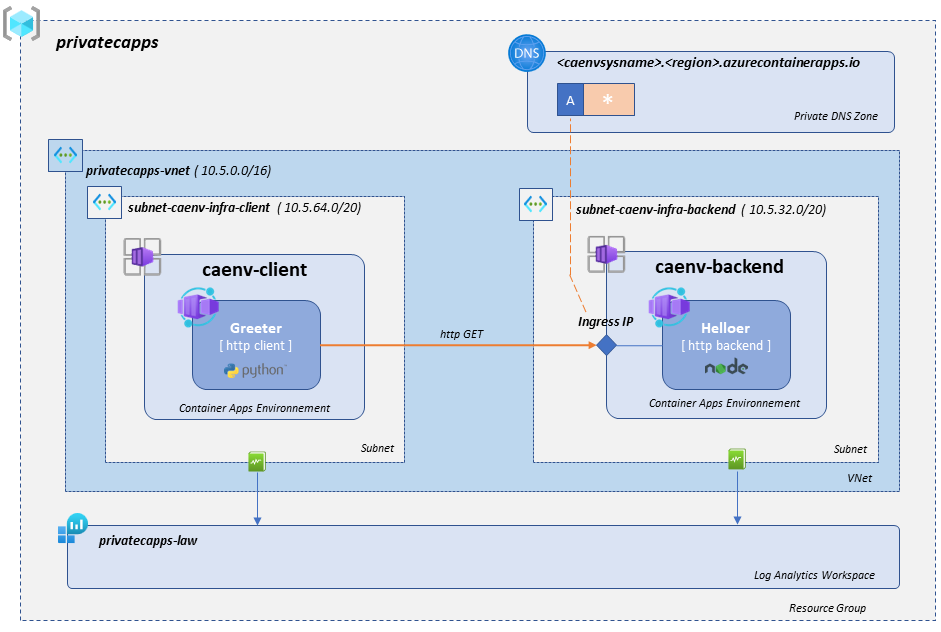
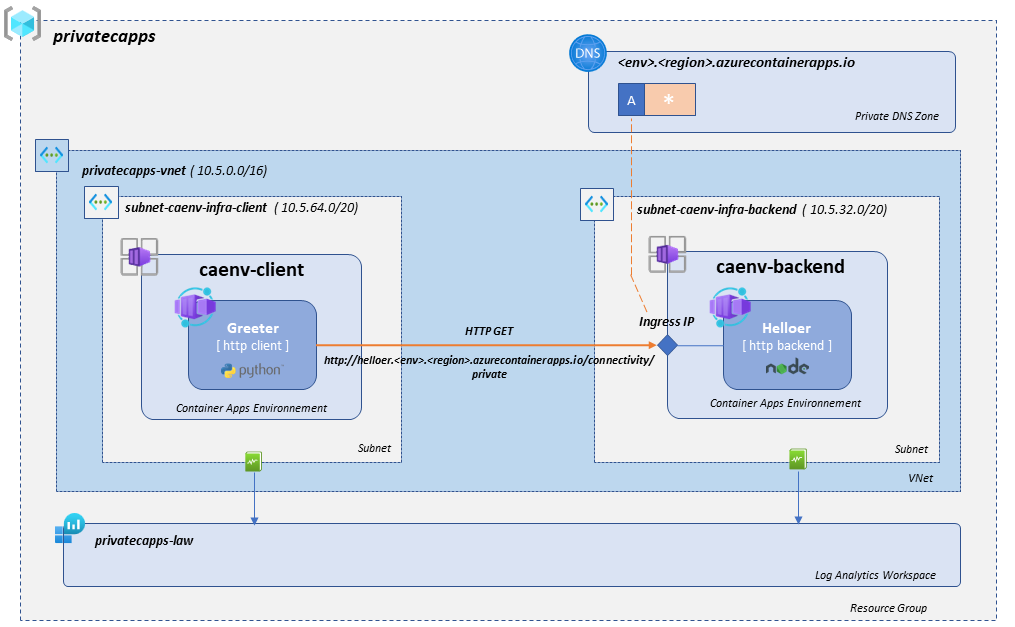
* Updated doc and README * Dos2Unix on source files

diff --git a/README.md b/README.md
@@ -1,2 +1,204 @@
+
 # az-capps-private
-Example of Azure Container Apps in private connectivity mode
+
+## Intro
+
+The Azure Container Apps is a new and quite interesting feature that provides a fully managed, ready to use, containerized serverless environment for your applications.
+
+This service is a highly valuable player when it comes to developing cloud native applications or simply accelerating your application modernization process by removing all operational dependencies on the Kubernetes infrastructure and underlying skills.
+The Azure Container Apps provides both public and fully private connectivity and can therefore fit pretty much any of the enterprise contexts.
+
+This repo demonstrates the deployment of a set of applications in a fully private mode where all the traffic flows though your Azure Vnets.
+Due to the freshness of the service GA, the IaC framework coverage for Azure Container Apps is quite limited as you can only use Azure ARM, CLI or Bicep to automate the deployment.
+
+The current repo provides the Bicep implementation and will be updated when additional frameworks (Terraform and eventually Pulumi) will extend the their coverage in order to provide the bindings for this service. 
+
+## Architecture
+
+The demonstrator deploys two Container Apps communicating via private connectivity over your VNet infrastructure. 
+
+The following diagram provides a high level overview of the demonstrator: 
+
+![image](src/doc/Architecture.png)
+
+### Backend service
+
+The **caenv-backend** environment hosts the **[helloer](https://github.com/zlatko-ms/helloer)** application, a simple nodejs app that responds to http requests.
+
+The environment is injected in a specific subnet and connected to the **privatecapps-law** Log Analytics workspace in order to provide diagnostic settings and log centralization.
+
+The application exposes an ingress via the environment ingress static IP. In order to reach your application ingress, the caller application must use the ingress FQDN as detailed in the following [doc](https://docs.microsoft.com/en-us/azure/container-apps/ingress?tabs=bash#ip-addresses-and-domain-names) . 
+
+Note that hitting the ILB behind the ingress with the IP address will not work as the hostname is used to route the traffic to the correct application within the environment.
+
+Hence we need to set up a **private DNS zone** with a **wildcard ('*') A record** pointing to the environment ingress static IP. The wildcard is justified by the fact that a given environment can have several applications, each with its own ingress, served from the same Internal Load Balancer. 
+
+The final app flow routing will use the hostname which is expected to be the same as the application name (in our case helloer.<env>.<region>.azurecontaierapps.io)
+
+### Client service
+
+The **caenv-client** environment hosts the **[greeter](https://github.com/zlatko-ms/pgreeter)** applicaion, a tiny python script that performs periodical HTTP GET requests to the backend.
+
+The environment is injected in a specific subnet and connected to the same **privatecapps-law** Log Analytics workspace to provide diagnostic settings and log centralization.
+
+This Greeter application does not provide any ingress, so there is no need to set up a DNS zone for this environment.
+
+## Code Walkthough
+
+The code tree is classic, the [main.bicep](https://github.com/zlatko-ms/az-capps-private/blob/main/src/bicep/main.bicep) providing the definitions of the demonstrator and using specific [modules](./src/bicep/modules/) to deploy the underlying infrastructure services ( CA Envs, Apps, DNS, Log Analytics)
+
+### VNet Definition
+
+The network infrastructure is defined by the two variables located in [main.bicep](https://github.com/zlatko-ms/az-capps-private/blob/main/src/bicep/main.bicep#L12). If necessay update the ranges in order to fit your Azure environnement constraints.
+
+The implementation of the VNet and underlying subnets is perfromed by the dedicated [vnet.bicep](https://github.com/zlatko-ms/az-capps-private/blob/main/src/bicep/modules/vnet.bicep) module.
+
+The network module **outputs** the identifiers of the created [Vnet](https://github.com/zlatko-ms/az-capps-private/blob/main/src/bicep/modules/vnet.bicep#L40) as well as of the [subnets](https://github.com/zlatko-ms/az-capps-private/blob/main/src/bicep/modules/vnet.bicep#L42) that will be required to wire up the Vnet injection and the DNS zone.
+
+### Container Apps Environnements
+
+The container apps environnements are implemented in the [caenv.bicep](./src/bicep/modules/caenv.bicep).
+
+The vnet injection is set up by providing the adequate subnet id to the environnement module as illustrated in the [main.bicep](https://github.com/zlatko-ms/az-capps-private/blob/main/src/bicep/main.bicep#L84) for the **caenv-backend**. A similar assignation is provided for the **caenv-client** environnement at [main.bicep](https://github.com/zlatko-ms/az-capps-private/blob/main/src/bicep/main.bicep#L114). The identifiers of the 
+
+The envrionnement is attached to the Log Analytics workspace by setting up the log analytics [clientid](./src/bicep/main.bicep:77) and [shared key](https://github.com/zlatko-ms/az-capps-private/blob/main/src/bicep/main.bicep#L78). For sake of "technical clarity" we used the output of the [law module](./src/bicep/modules/law.bicep) to get the keys. In a production environnement you should consider storing the secrets in a secured storage such an Azure Key Vault.
+
+### Private DNS for Backend Service
+
+In order to set up the DNS zone we'll need the VNet Id, the environnement domain as well as the environnement static IP assigned on creation time.
+
+The domain name is provided by the backend service application environnement as an [output](https://github.com/zlatko-ms/az-capps-private/blob/main/src/bicep/modules/caen.bicep#L44), assigned from [main.bicep](https://github.com/zlatko-ms/az-capps-private/blob/main/src/bicep/main.bicep#L95) and used in the dedicated [caenvdns.bicep](https://github.com/zlatko-ms/az-capps-private/blob/main/src/bicep/modules/caenvdsn..bicep#L22) module.
+
+The static Ip is used to set up the wildcar A record in, assigned from [main.bicep](https://github.com/zlatko-ms/az-capps-private/blob/main/src/bicep/main.bicep#L96) and used in [caenvdns.bicep](https://github.com/zlatko-ms/az-capps-private/blob/main/src/bicep/modules/caenvdsn.bicep#L48).
+
+The VNet is provided as the output of the [vnet.bicep](https://github.com/zlatko-ms/az-capps-private/blob/main/src/bicep/modules/vnet.bicep#L44) module, assigned from [main.bicep](https://github.com/zlatko-ms/az-capps-private/blob/main/src/bicep/main.bicep#L97) and used in the [caenvdns.bicep](https://github.com/zlatko-ms/az-capps-private/blob/main/src/bicep/modules/caenvdsn.bicep#L35) module.
+
+### Applications
+
+The Container Apps are defined in [main.bicep](https://github.com/zlatko-ms/az-capps-private/blob/main/src/bicep/main.bicep#L118-L220) and realized by the dedicated [ca.bicep](https://github.com/zlatko-ms/az-capps-private/blob/main/src/bicep/modules/ca.bicep) module.
+
+The **helloer** application ingress definition can be found in [main.bicep](https://github.com/zlatko-ms/az-capps-private/blob/main/src/bicep/main.bicep#L130) while the **greeter** has no ingress.
+
+The **greeter** application requires the URL to hit to be provided as a GREETER_URL environnement variable. The value of the url is computed at [main.bicep](https://github.com/zlatko-ms/az-capps-private/blob/main/src/bicep/main.bicep#L184) and assigned at [main.bicep](https://github.com/zlatko-ms/az-capps-private/blob/main/src/bicep/main.bicep#L207)
+
+
+## Usage
+
+### Requirements
+
+In order to deploy the demo project you'll need the following dependencies : 
+
+* [Azure CLI](https://docs.microsoft.com/en-us/cli/azure/install-azure-cli-linux)
+* [Azure CLI Bicep extension](https://docs.microsoft.com/en-us/azure/azure-resource-manager/bicep/install) 
+* GNU Make
+* GitHub project clone
+
+We advise using a Linux shell or WSL on Windows as it was used to build the project. However any OS with the dependencies installed will work as well.
+
+If you have trouble installing GNU Make (i.e you are probably using a Windows shell), you can simply type the commands referenced in the [Makefile]((https://github.com/zlatko-ms/az-capps-private/blob/main/src/bicep/Makefile) for each rule. Just make sure to remove the @ prefix from each command line.
+
+### Deployement
+
+Start by connecting to azure from the command line : 
+
+```bash 
+az login
+```
+
+To deploy the project with default values for the resource group name and region simply issue the following commands : 
+
+```bash 
+cd src/bicep
+make
+```
+
+If you want to customize the location or the resource group name you can use the following : 
+
+```bash 
+cd src/bicep
+make stackName=<myRGName> location=<myAzureRegion>
+```
+
+### Using within the resource group scope
+
+The scope of the bicep project is the subscription and therfore requires the user to have the necessary priviledges on the subscription level.
+
+If you are not in that situation, then you it *should* be possible to deploy it on a ressource group level by : 
+
+* changing the targetScope to 'resourceGroup' in the [main.bicep](https://github.com/zlatko-ms/az-capps-private/blob/main/src/bicep/main.bicep#L1)
+* commenting the resource group creation from [main.bicep](https://github.com/zlatko-ms/az-capps-private/blob/main/src/bicep/main.bicep#L40-L45)
+* changing the command lines in the [Makefile](https://github.com/zlatko-ms/az-capps-private/blob/main/src/bicep/Makefile) to deploy on an existing resource with the help of this [doc](https://docs.microsoft.com/en-us/azure/azure-resource-manager/bicep/deploy-to-resource-group)
+
+### Insights
+
+Once the deployement process is finished, start by taking a tour on the created resource group and you shoud see an output similar to the following : 
+
+Then take a look at the *Log Stream* of the **Greeter** application, that should look similar to the following : 
+
+![image](src/doc/logstream-capture-client-greeter.png)
+
+Then take a look at the *Log Stream* of the **Helloer** application, that should look similar to this : 
+
+![image](src/doc/logstream-capture-backend-helloer.png)
+
+Note the trace showing the calls : 
+
+```bash
+2022-06-15 15:55:01-07 [info] (helloer) recv hello request
+2022-06-15 15:55:01-13 [info] (helloer) sent hello response to client from 10.5.64.42
+```
+
+It indicates the request is adressed from a client with IP 10.5.64.42, i.e. the request origins from the **subnet-caenv-infra-client** (10.5.64.0/20) where the **caenv-client** has been injected.
+
+Additional inisights on your apps and infra can be found from the log analytics workspace. 
+
+In order to check system logs, go to the **Logs** entry of any of the application and explore the available events by entering the simplest possible KQL query : 
+
+```kql
+ContainerAppSystemLogs_CL 
+```
+
+In order to check and explore the applications logs, which you already looked at using the **Log Stream**, go to the **Log Stream** entry of any of the application and explore the available events by the simplest possible KQL query : 
+
+```kql
+ContainerAppConsoleLogs_CL 
+```
+
+You can then refine both queries using the [KQL language](https://docs.microsoft.com/en-us/azure/data-explorer/kql-quick-reference)
+
+The **Metrics** tab will scope Azure Monitor to your application to provide a quick way of building your application monitoring dashboards.
+
+### Cleanup
+
+To delete all the deployed ressources simply issue the following commands : 
+
+```bash 
+cd src/bicep
+make clean
+```
+
+If you have customized the resource group name, then please make sure it is provided as a parameter : 
+
+```bash 
+cd src/bicep
+make stackName=<myRGName> clean
+```
+## Project Roadmap
+
+At the current stage this repo demonstrates a simple setup and focuses on the network connectivity.
+
+Ideally we'd like to to cover the following areas as well : 
+
+* network filtering with azure firewall
+* hybrid public/private connectivity
+* usage of managed indentities to access azure services
+
+If you're interrested in contributing in any of the above mentionned areas, please reach out ! 
+
+
+## Usefull Readings
+
+* [Azure Container Apps Overview](https://docs.microsoft.com/en-us/azure/container-apps/overview)
+* [Azure Container Apps ARM/Biceps reference](https://docs.microsoft.com/en-us/azure/templates/microsoft.app/containerapps?tabs=bicep)
+
+
